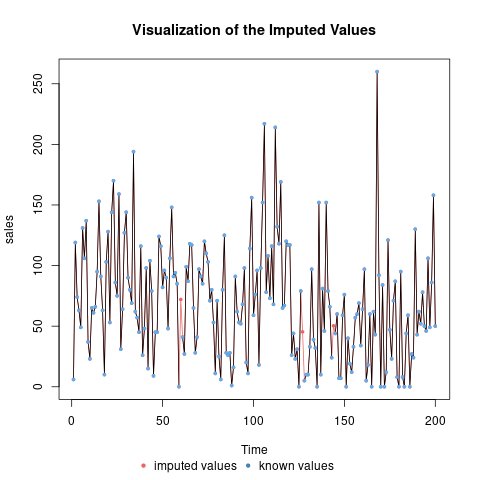
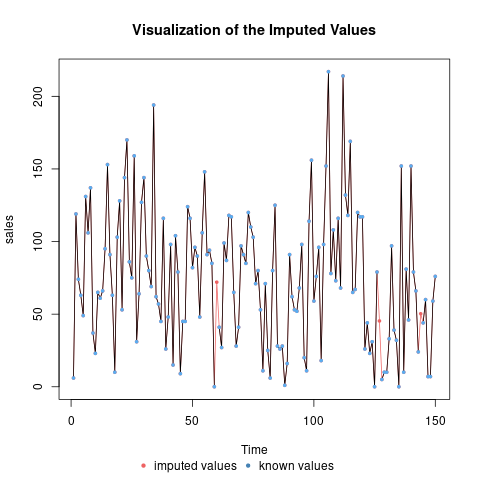
update

diff --git a/R_Forecasting_with_ARMAX/README.md b/R_Forecasting_with_ARMAX/README.md
@@ -145,6 +145,10 @@ DT <- DT[date.grid.DT]
 
 DT[, c('webvisits.withNA', 'sales.withNA') := .(webvisits, sales)]
 DT[, c('webvisits', 'sales') := .(na.kalman(webvisits), na.kalman(sales))]
+
+png(file= 'figures/02-imputed-values-for-sales-graph.png')
+plotNA.imputations(DT[1:150, sales.withNA], DT[1:150, sales], ylab = 'sales', main = 'Visualization of the Imputed Values')
+dev.off()
 ```
 
 ![Imputed values for sales graph](figures/02-imputed-values-for-sales-graph.png)
